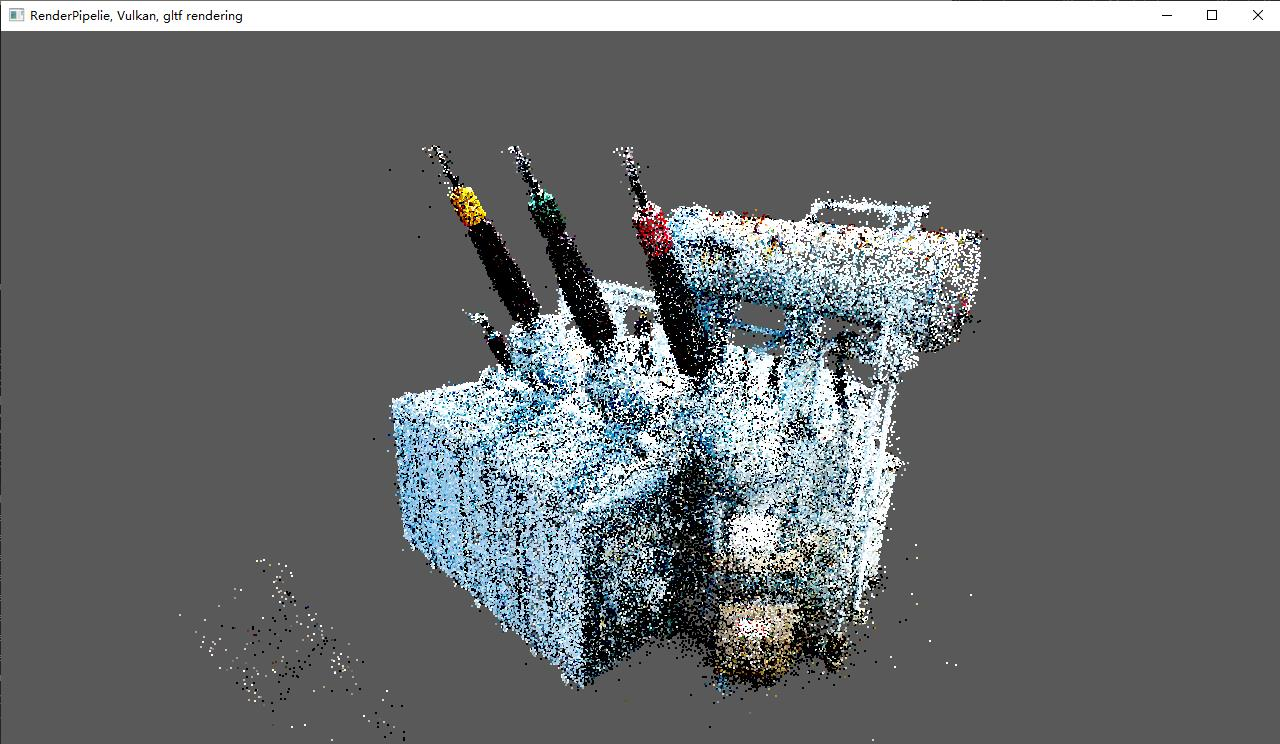
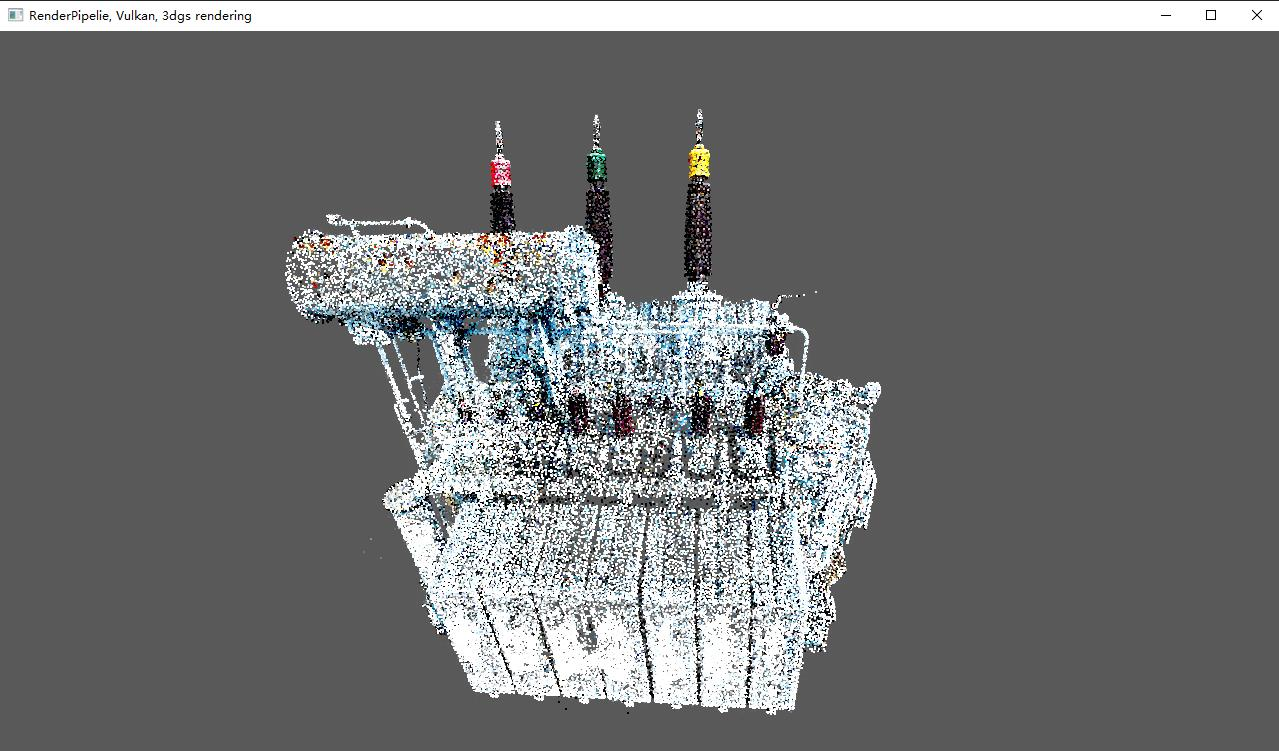
update 3dgs and samples doc

Changed region(s): [[0.2134, 0.1546, 0.7928, 0.9583], [0.0, 0.0, 0.2134, 0.0309], [0.2439, 0.8656, 0.2744, 0.8965]]

diff --git a/examples/engine01-model/engine01-model.cpp b/examples/engine01-model/engine01-model.cpp
@@ -56,7 +56,7 @@ namespace pipeline {
 
             glfwInit();
             glfwWindowHint(GLFW_CLIENT_API, GLFW_NO_API);
-            window = glfwCreateWindow(WINDOW_WIDTH, WINDOW_HEIGHT, "RenderPipelie, Vulkan, gltf rendering", nullptr, nullptr);
+            window = glfwCreateWindow(WINDOW_WIDTH, WINDOW_HEIGHT, "RenderPipelie, Vulkan, 3dgs rendering", nullptr, nullptr);
 
             glfwSetWindowUserPointer(window, this);
             glfwSetFramebufferSizeCallback(window, framebufferResizeCallback);

diff --git a/README.md b/README.md
@@ -21,16 +21,18 @@ RenderPipeline is an open-source implementation of the book 'Real-Time Graphics 
 
 # Samples
 ## obj/gltf models
-<img src=./doc/images/obj.jpg width=400 /> <img src=./doc/images/gltf.jpg width=400 />
+| ![3D高斯点云](./doc/images/obj.jpg) | ![四边形混合前](./doc/images/gltf.jpg) |
+|:------------------------------------------:|:------------------------------------------:|
+| 图1: obj模型                           | 图2: gltf模型    
 
 ## splat 3dgs models
 | ![3D高斯点云](./doc/images/3dgs_points.jpg) | ![四边形混合前](./doc/images/3dgs_quads_blend01.jpg) |
 |:------------------------------------------:|:------------------------------------------:|
-| 图1: 基础点云形态                           | 图2: 四边形混合前效果                      |
+| 图1: 基础点云形态                           | 图2: 四边形混合效果                      |
 
 | ![四边形混合后](./doc/images/3dgs_quads_blend02.jpg) | ![球体混合无排序](./doc/images/3dgs_balls_blend_no_sort.jpg) |
 |:------------------------------------------:|:------------------------------------------:|
-| 图3: 四边形混合后效果                      | 图4: 球体无序混合效果                      |
+| 图3: 四边形混合效果                      | 图4: 球体无序混合效果                      |
 # Todo
 
 ### vulkan
